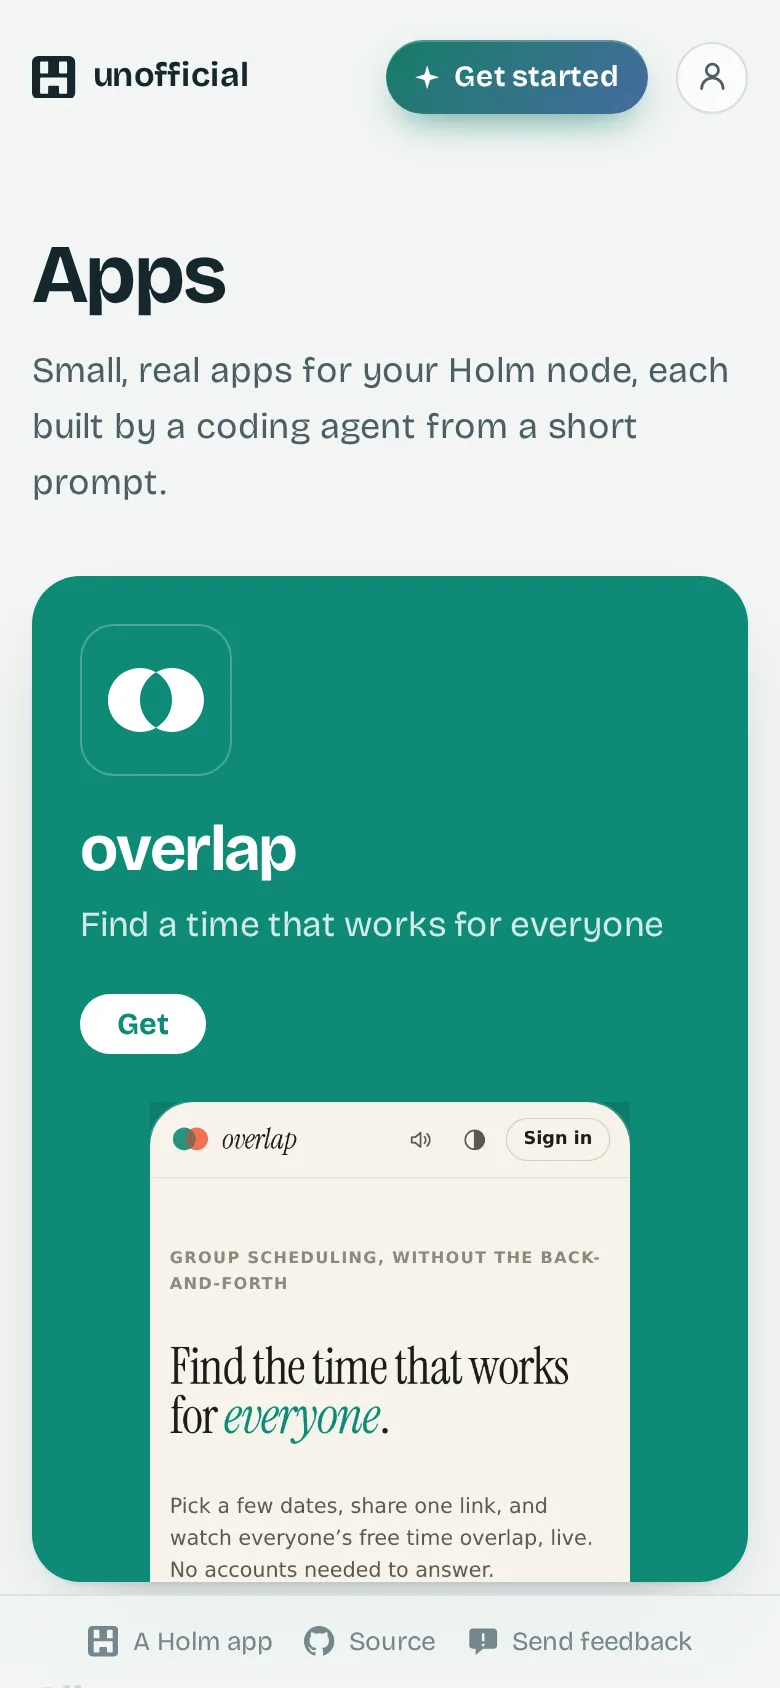
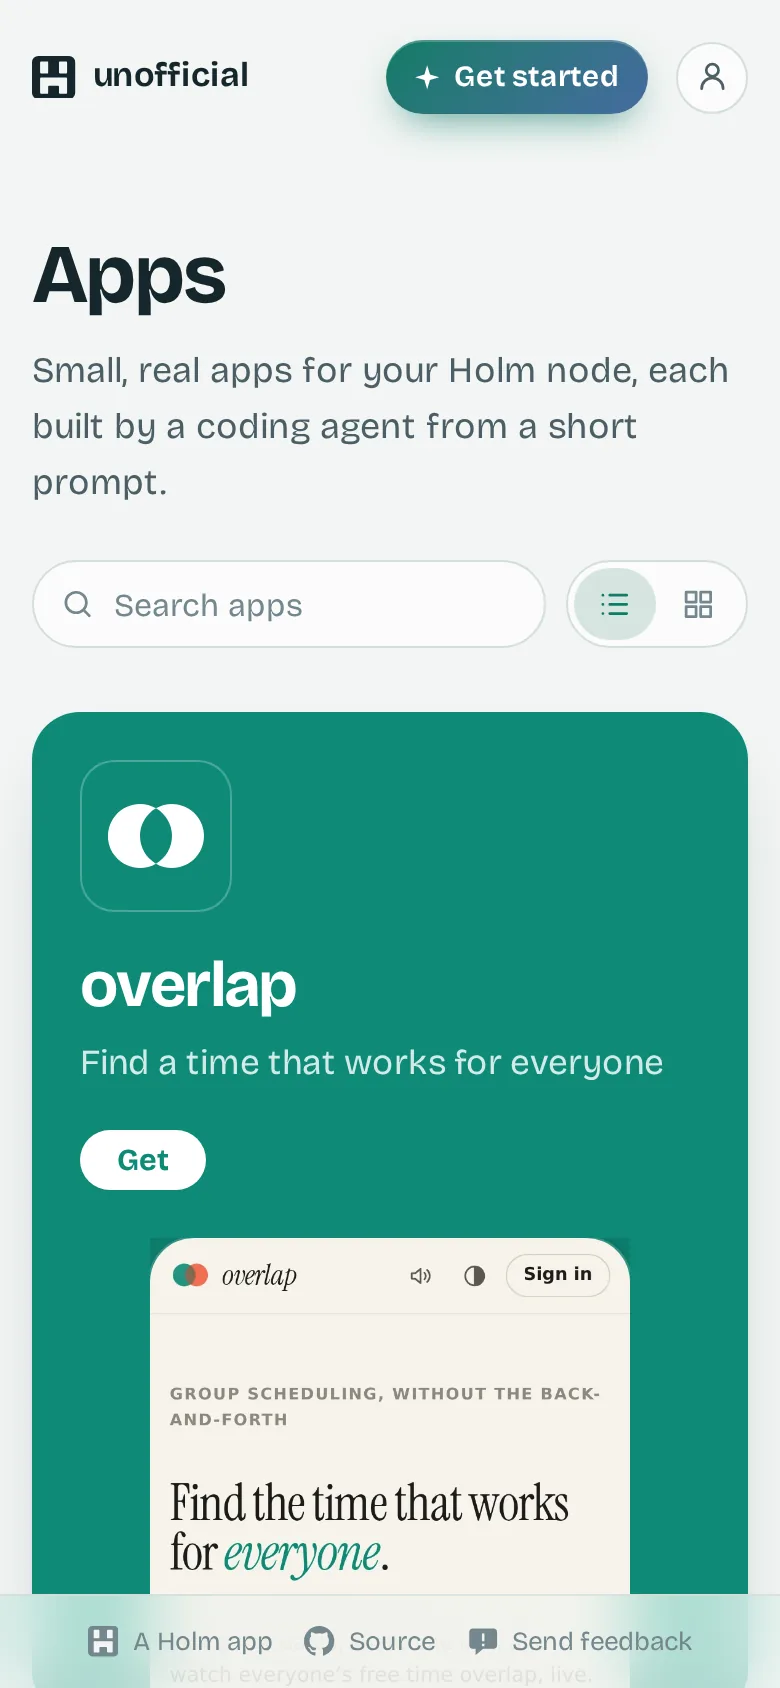
catalog 0.9.0: search the store, and see it as a list or a grid
A search field and a list/grid switch sit under the heading, above the
featured app, so typing never moves them. Search filters as you type on
name, subtitle, description and category, lives in ?q= so it can be
shared and Back restores it, sets the featured app aside and counts the
matches. "/" jumps to it and Esc clears it; when nothing matches, the
page offers to clear it or to build the app with your agent. The view is
remembered, and the grid is two columns on a phone.

Changed region(s): [[0.0308, 0.3389, 0.9846, 0.7701], [0.0, 0.8009, 0.9846, 1.0]]

diff --git a/catalog/web/src/app.js b/catalog/web/src/app.js
@@ -1,7 +1,7 @@
 // The store: a front page of every app, and a page for each one. Data comes
 // from the repository's index.json: embedded in the page by the server, or
 // through /api/index.
-import { $, el, icon, bytes, paragraphs, stars, track, applyTint, REPO } from './lib.js'
+import { $, el, icon, bytes, paragraphs, stars, track, applyTint, store, REPO } from './lib.js'
 import { openInstall } from './install.js'
 import { loadViewer, onViewer, setViewer } from './account.js'
 import { reviewsSection } from './reviews.js'
@@ -82,18 +82,124 @@ function featured(app) {
       shotImage({ src: shotURL(app, shot), alt: shot.alt, width: shot.width, height: shot.height })))
 }
 
+// A grid view's card: the same parts as a row, stacked.
+function card(app) {
+  return el('li', { class: 'app-card' },
+    el('a', { class: 'app-card-link', href: withRef('/apps/' + app.path), 'data-link': true },
+      icon(app, 'l'),
+      el('span', { class: 'app-card-title' }, app.title),
+      el('span', { class: 'app-card-sub' }, subtitle(app)),
+      el('span', { class: 'row-meta' }, meta(app))),
+    getButton(app))
+}
+
+// Line icons for the view switch and the search field, on a 24-unit grid.
+function glyph(d) {
+  const ns = 'http://www.w3.org/2000/svg'
+  const svg = document.createElementNS(ns, 'svg')
+  svg.setAttribute('viewBox', '0 0 24 24')
+  svg.setAttribute('aria-hidden', 'true')
+  const path = document.createElementNS(ns, 'path')
+  path.setAttribute('d', d)
+  svg.append(path)
+  return svg
+}
+const LIST = 'M9 6h11M9 12h11M9 18h11M4.5 6h.01M4.5 12h.01M4.5 18h.01'
+const GRID = 'M4 4h6.5v6.5H4zM13.5 4H20v6.5h-6.5zM4 13.5h6.5V20H4zM13.5 13.5H20V20h-6.5z'
+const LENS = 'M11 18a7 7 0 1 0 0-14 7 7 0 0 0 0 14zM20 20l-4-4'
+const CROSS = 'M7 7l10 10M17 7 7 17'
+
+// What the search looks in, and whether every word typed is there.
+const haystack = app => [app.title, app.path, subtitle(app), app.description, app.listing && app.listing.category, app.listing && app.listing.description]
+  .filter(Boolean).join(' ').toLowerCase()
+const matches = (app, words) => words.every(word => haystack(app).includes(word))
+
+// The front page's own state: the search, kept in the address so it can be
+// shared (and Back brings it back), and list or grid, remembered.
+let query = ''
+let view = store.get('view') === 'grid' ? 'grid' : 'list'
+
 function storefront() {
   document.title = 'Unofficial Holm apps'
+  query = new URLSearchParams(location.search).get('q') || ''
   const feature = index.apps.find(app => app.listing && app.listing.featured && app.listing.screenshots.length)
+  const featureCard = feature && featured(feature)
+  const count = el('span', { class: 'count', 'aria-live': 'polite' })
+  const list = el('ul')
+  const empty = el('div', { class: 'empty', hidden: true })
+
+  const fill = () => {
+    const words = query.toLowerCase().split(/\s+/).filter(Boolean)
+    const found = index.apps.filter(app => matches(app, words))
+    if (featureCard) featureCard.hidden = words.length > 0
+    list.className = view === 'grid' ? 'cards' : 'rows'
+    list.replaceChildren(...found.map(view === 'grid' ? card : row))
+    count.textContent = words.length ? `${found.length} of ${index.apps.length}` : String(index.apps.length)
+    empty.hidden = found.length > 0
+    empty.replaceChildren(
+      el('p', {}, 'No app here matches “', query.trim(), '”.'),
+      el('p', {}, el('button', { type: 'button', class: 'quiet', onclick: () => setQuery('') }, 'Clear the search'), ', or ',
+        el('a', { href: withRef('/start') + '#build', 'data-link': true }, 'build it with your agent'), '.'))
+  }
+
+  const input = el('input', {
+    type: 'search', name: 'q', value: query, placeholder: 'Search apps', 'aria-label': 'Search apps',
+    autocomplete: 'off', spellcheck: 'false', enterkeyhint: 'search'
+  })
+  const clear = el('button', { type: 'button', class: 'clear', 'aria-label': 'Clear the search', onclick: () => { setQuery(''); input.focus() } }, glyph(CROSS))
+  const finder = el('form', { class: 'finder', role: 'search', onsubmit: event => { event.preventDefault(); input.blur() } },
+    el('label', { class: 'search' }, glyph(LENS), input, el('kbd', { 'aria-hidden': 'true' }, '/'), clear),
+    el('div', { class: 'views', role: 'group', 'aria-label': 'Show apps as' },
+      [['list', 'List', LIST], ['grid', 'Grid', GRID]].map(([key, label, d]) => el('button', {
+        type: 'button', 'aria-label': label, title: label, 'aria-pressed': String(view === key), 'data-view': key,
+        onclick: event => {
+          view = key
+          store.set('view', view)
+          for (const button of event.currentTarget.parentNode.children) button.setAttribute('aria-pressed', String(button.dataset.view === view))
+          fill()
+        }
+      }, glyph(d)))))
+  const mark = () => finder.classList.toggle('typed', query !== '')
+  const setQuery = value => {
+    query = value
+    input.value = value
+    const url = new URL(location.href)
+    if (value.trim()) url.searchParams.set('q', value.trim())
+    else url.searchParams.delete('q')
+    history.replaceState(null, '', url)
+    mark()
+    fill()
+  }
+  input.addEventListener('input', () => setQuery(input.value))
+  input.addEventListener('keydown', event => {
+    if (event.key !== 'Escape') return
+    if (query) setQuery('')
+    else input.blur()
+  })
+
+  mark()
+  fill()
   show(
     el('section', { class: 'masthead' },
       el('h1', {}, 'Apps'),
-      el('p', { class: 'lede' }, 'Small, real apps for your Holm node, each built by a coding agent from a short prompt.')),
-    feature && featured(feature),
+      el('p', { class: 'lede' }, 'Small, real apps for your Holm node, each built by a coding agent from a short prompt.'),
+      finder),
+    featureCard,
     el('section', { class: 'shelf' },
-      el('h2', {}, 'All apps'),
-      el('ul', { class: 'rows' }, index.apps.map(row))))
+      el('h2', {}, 'All apps', count),
+      list, empty))
 }
+
+// "/" anywhere on the front page goes to the search.
+document.addEventListener('keydown', event => {
+  if (event.key !== '/' || event.metaKey || event.ctrlKey || event.altKey) return
+  const at = document.activeElement
+  if (at && (/^(INPUT|TEXTAREA|SELECT)$/.test(at.tagName) || at.isContentEditable)) return
+  const search = $('.finder input')
+  if (!search) return
+  event.preventDefault()
+  search.focus()
+})
 
 const fact = (value, label) => value && el('li', {}, el('strong', {}, value), el('span', {}, label))
 const info = (label, ...value) => el('div', {}, el('dt', {}, label), el('dd', {}, ...value))

diff --git a/catalog/web/src/styles.css b/catalog/web/src/styles.css
@@ -57,6 +57,7 @@
 }
 
 *, *::before, *::after { box-sizing: border-box; }
+[hidden] { display: none !important; }
 /* Whatever gains focus or is scrolled to stays clear of the footer. */
 html { -webkit-text-size-adjust: 100%; scroll-padding-bottom: 4.5rem; }
 @media (prefers-reduced-motion: no-preference) {
@@ -258,6 +259,57 @@ main { flex: 1 0 auto; padding-bottom: 3.5rem; }
 
 .shelf { margin-top: 3rem; }
 .shelf h2 { padding-bottom: 0.5rem; border-bottom: 1px solid var(--rule); }
+.shelf h2 .count { margin-left: 0.55rem; font-size: 0.95rem; font-weight: 500; letter-spacing: 0; color: var(--ink-3); font-variant-numeric: tabular-nums; }
+
+/* Search and the list/grid switch, under the heading so typing never moves them */
+.finder { display: flex; align-items: center; gap: 0.6rem; margin-top: 1.5rem; max-width: 34rem; }
+.search { position: relative; flex: 1; min-width: 0; display: block; }
+.search > svg { position: absolute; left: 0.85rem; top: 50%; width: 1.1rem; height: 1.1rem; transform: translateY(-50%); pointer-events: none; color: var(--ink-3); }
+.finder svg { fill: none; stroke: currentColor; stroke-width: 1.8; stroke-linecap: round; stroke-linejoin: round; }
+.search input {
+  width: 100%; height: 2.75rem;
+  /* 16px or more, or iPhones zoom the page when the field is focused. */
+  font: 400 max(1rem, 16px) var(--font); color: var(--ink);
+  background: var(--sheet); border: 1px solid var(--rule); border-radius: 999px;
+  padding: 0 2.75rem 0 2.5rem;
+  -webkit-appearance: none; appearance: none;
+}
+.search input::-webkit-search-cancel-button { -webkit-appearance: none; }
+.search input::placeholder { color: var(--ink-3); }
+.search input:focus-visible { outline-offset: 0; border-color: var(--accent); }
+.search kbd, .search .clear { position: absolute; right: 0.55rem; top: 50%; transform: translateY(-50%); }
+.search kbd { padding: 0.05rem 0.4rem; border: 1px solid var(--rule); border-radius: 6px; font: 400 0.75rem var(--mono); color: var(--ink-3); }
+.search .clear { display: none; place-items: center; width: 2rem; height: 2rem; padding: 0; border: 0; border-radius: 50%; background: none; color: var(--ink-3); cursor: pointer; }
+.search .clear svg { width: 1rem; height: 1rem; }
+.search .clear:hover { color: var(--ink); background: var(--paper); }
+.finder.typed .clear { display: grid; }
+.finder.typed kbd, .search input:focus ~ kbd { display: none; }
+@media (hover: none) { .search kbd { display: none; } }
+.views { flex: none; display: flex; padding: 3px; border: 1px solid var(--rule); border-radius: 999px; background: var(--sheet); }
+.views button { display: grid; place-items: center; width: 2.6rem; height: 2.3rem; padding: 0; border: 0; border-radius: 999px; background: none; color: var(--ink-3); cursor: pointer; }
+.views button:hover { color: var(--ink); }
+.views button[aria-pressed="true"] { background: var(--accent-wash); color: var(--accent); }
+.views svg { width: 1.15rem; height: 1.15rem; }
+
+/* The grid view */
+.cards { list-style: none; margin: 1.25rem 0 0; padding: 0; display: grid; grid-template-columns: repeat(auto-fill, minmax(12.5rem, 1fr)); gap: 1rem; }
+.app-card { display: grid; align-content: space-between; gap: 0.9rem; padding: 1.1rem 1.1rem 1rem; border-radius: 20px; background: var(--sheet); border: 1px solid var(--rule); }
+.app-card-link { display: grid; gap: 0.25rem; min-width: 0; text-decoration: none; }
+.app-card-link .icon { margin-bottom: 0.65rem; }
+.app-card-title { font-size: 1.12rem; font-weight: 650; letter-spacing: -0.01em; }
+.app-card-link:hover .app-card-title { text-decoration: underline; text-underline-offset: 0.18em; }
+.app-card-sub { color: var(--ink-2); font-size: 0.95rem; overflow: hidden; display: -webkit-box; -webkit-line-clamp: 2; -webkit-box-orient: vertical; }
+.app-card .get { justify-self: start; }
+@media (max-width: 36rem) {
+  .cards { grid-template-columns: repeat(2, minmax(0, 1fr)); gap: 0.75rem; }
+  .app-card { padding: 0.9rem; border-radius: 16px; }
+  .app-card .icon-l { --size: 3.5rem; }
+}
+
+.empty { margin-top: 1.5rem; padding: 1.25rem 1.3rem; border-radius: 16px; border: 1px dashed var(--rule); color: var(--ink-2); }
+.empty p { margin: 0; }
+.empty p + p { margin-top: 0.4rem; font-size: 0.95rem; }
+.empty a { color: var(--accent); font-weight: 550; }
 .rows { list-style: none; margin: 0; padding: 0; }
 .row { display: flex; align-items: center; gap: 1rem; padding-block: 0.9rem; border-bottom: 1px solid var(--rule); }
 .row-link { flex: 1; min-width: 0; display: flex; align-items: center; gap: 1rem; text-decoration: none; }

diff --git a/catalog/web/src/start.js b/catalog/web/src/start.js
@@ -321,7 +321,7 @@ function setup(apps) {
 }
 
 function build() {
-  return el('section', { class: 'guide-section' },
+  return el('section', { class: 'guide-section', id: 'build' },
     el('h2', {}, 'Build your own'),
     el('p', { class: 'section-lede' }, 'Every app here began as a few sentences to a coding agent. Say what you want and point it at Holm’s reference; ',
       'each app’s page in ', el('a', { href: '/', 'data-link': true }, 'this store'), ' shows the prompt that built it.'),

diff --git a/catalog/PROMPT.md b/catalog/PROMPT.md
@@ -26,7 +26,8 @@ third-party runtime CDN; vendor fonts and any libraries with licenses.
   the base64 digest with h1:. Exclude listing/ and hidden files; count README
   and PROMPT too. --check detects stale indexes or changed release tags;
   --tag creates missing tags. CI checks then tags versions on main.
-- An App Store-like front page with a featured app and rows, each app's own
+- An App Store-like front page with search (as you type, kept in ?q=), a
+  list/grid switch, a featured app and rows, each app's own
   /apps/<app> page: icon/colour, version, size, category, license, swipeable
   screenshots, description, whatsNew, original prompt and source information.
   Read the public repository index with synchronous env.holm.net.fetch,
@@ -195,6 +196,10 @@ became its first, working way.
 
 The agent offered three figures (cartridges in a node, a hub, a belt); the
 owner picked the belt.
+
+**Iteration 11**, sent while the guide was being finished:
+
+> May be we need a search, grid / list view for the apps; i know its early but as more comes in, this may help?
 
 The build request spells out the repository conventions without claiming
 they are a shipped Holm store protocol. It uses the public v1 guide for

diff --git a/catalog/README.md b/catalog/README.md
@@ -23,8 +23,17 @@ out of this app's deploy. They are still public source in this repository.
 
 ## What it does
 
-- **Front page:** a featured app on its own colour, then every app as a row
-  with its icon, subtitle, category and a Get button.
+- **Front page:** a search field and a list/grid switch under the heading,
+  a featured app on its own colour, then every app as a row (or a card) with
+  its icon, subtitle, category and a Get button.
+  - **Search** filters as you type, on name, subtitle, description and
+    category; every word must match. The query lives in the address
+    (`?q=`), so a search can be shared and Back brings it back; while it is
+    on, the featured app steps aside and the heading counts the matches.
+    `/` jumps to it, Esc clears it, and when nothing matches the page offers
+    to clear it or to build the app with your agent (`/start#build`).
+  - **List or grid**, remembered in the browser. The grid is two columns on
+    a phone.
 - **Get started** at `/start`, linked from the install sheet and from the
   header on every page, where it is a tinted pill with a sparkle and a light
   that sweeps across it now and then (still for reduced motion). It assumes
